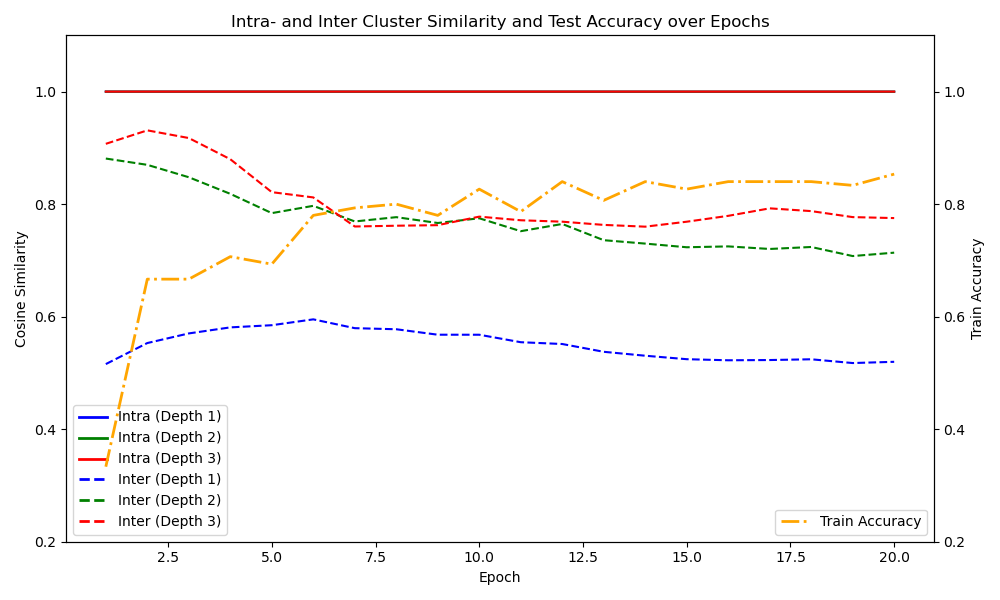
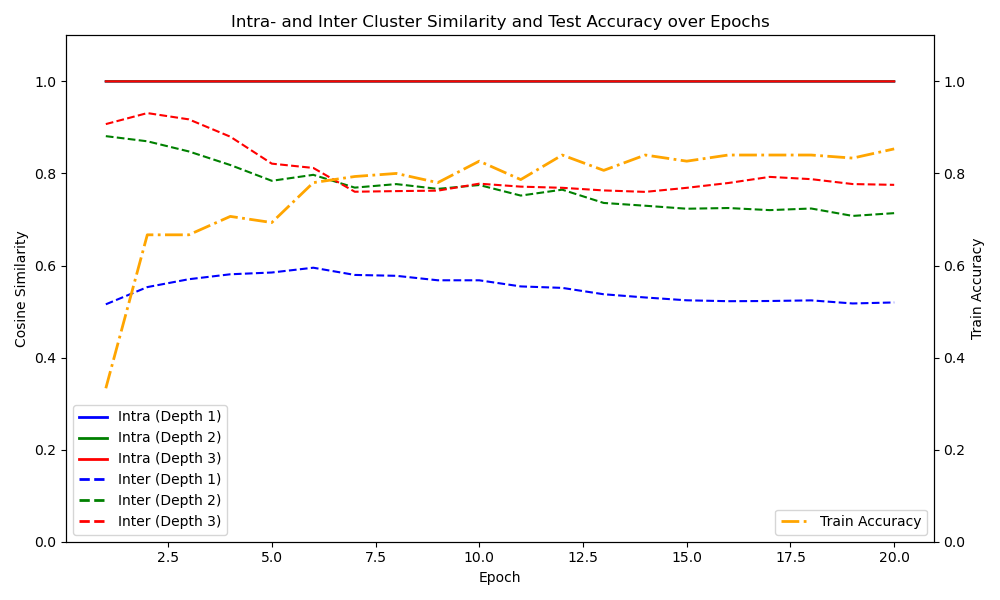
update

diff --git a/visualization.py b/visualization.py
@@ -62,6 +62,7 @@ def plot_similarity(results, filename='similarity_with_accuracy_plot.png'):
             inter_cleaned = clean_nans(metrics['inter'])
 
             # Plot intra with solid line
+
             intra_line, = ax1.plot(range(1, len(intra_cleaned) + 1), intra_cleaned,
                                    label=f'Depth (Intra) {depth}', linestyle='-', color=colors[i])
             intra_lines.append(intra_line)
@@ -75,7 +76,7 @@ def plot_similarity(results, filename='similarity_with_accuracy_plot.png'):
     ax1.set_title('Intra- and Inter Cluster Similarity and Test Accuracy over Epochs')
     ax1.set_xlabel('Epoch')
     ax1.set_ylabel('Cosine Similarity')
-    plt.ylim(0.2, 1.1)
+    plt.ylim(0.0, 1.1)
 
     # Plot test accuracy on a secondary y-axis (make sure to use test_acc_epochs)
     ax2 = ax1.twinx()
@@ -96,7 +97,7 @@ def plot_similarity(results, filename='similarity_with_accuracy_plot.png'):
 
     ax1.legend(custom_legend, custom_labels, loc='lower left')
 
-    plt.ylim(0.2,1.1)
+    plt.ylim(0.0,1.1)
     # Save the plot to a file
     plt.tight_layout()
     plt.savefig(filename)
